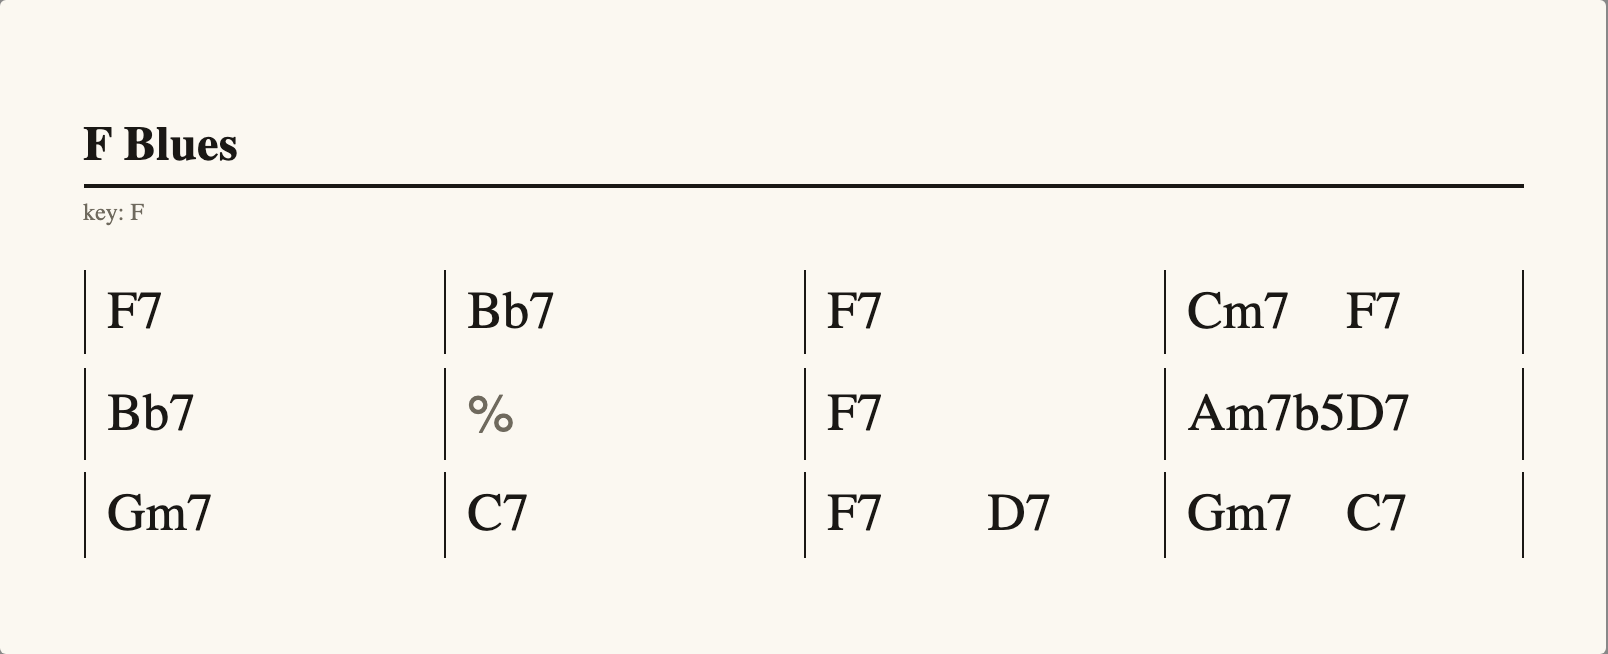
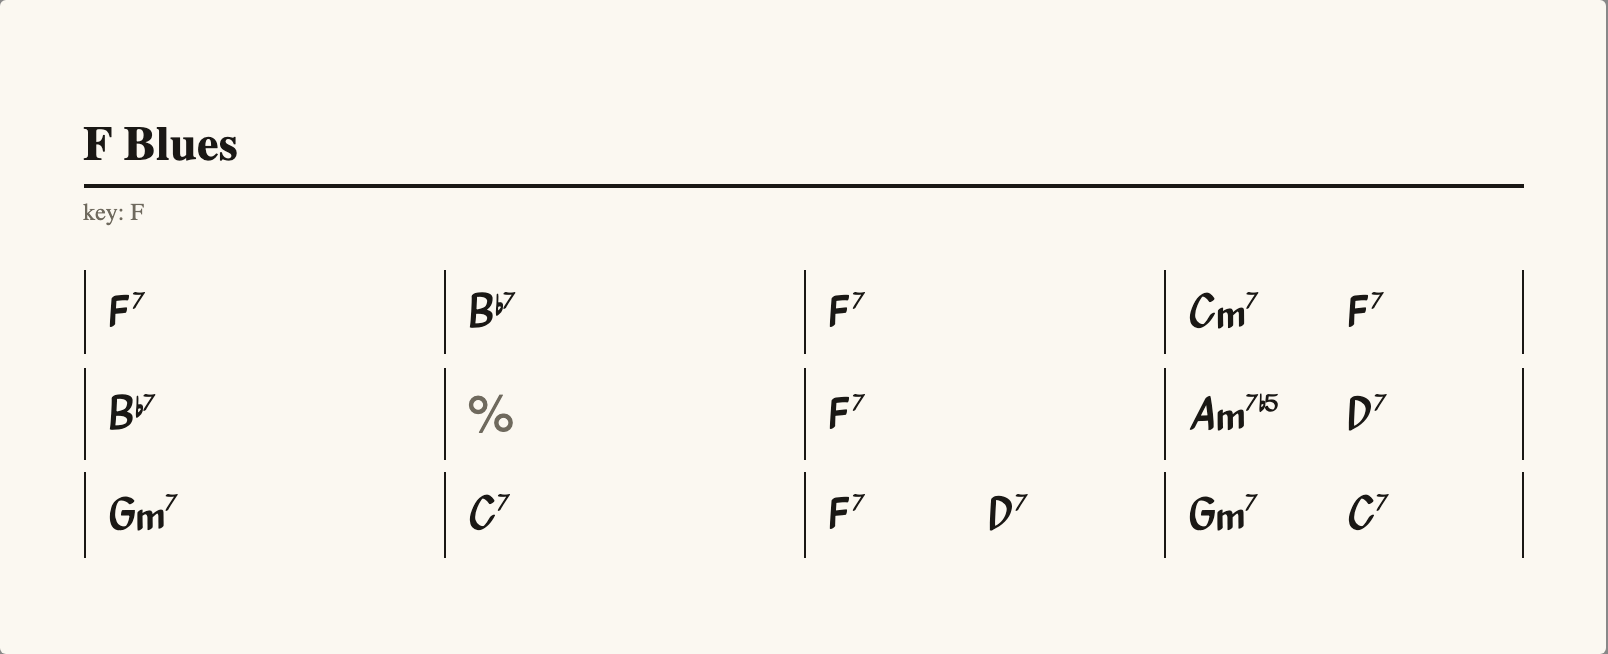
Fix README preview rendering by inlining ChordFont for Playwright.
Headless Chromium rejects file:// @font-face URLs, so previews were
screenshotting plain fallback text. Embed the TTF as a data URI, wait
for fonts.ready, and regenerate docs/assets/.

diff --git a/scripts/render-previews.ts b/scripts/render-previews.ts
@@ -2,14 +2,16 @@
  * Render example previews for docs/assets/ (README embeds, publish-ready).
  *
  * Charts: .cfmd → HTML + ChordFont → PNG (Playwright)
- * Graphs: .cfgv → Graphviz SVG → PNG + SVG (Playwright applies ChordFont to labels)
+ * Graphs: .cfgv → Graphviz SVG (font embedded) → PNG
+ *
+ * ChordFont is inlined as a data-URI — file:// @font-face fails in headless Chromium.
  *
  * Usage: make previews   (requires Node 22+, ChordProof.ttf, Playwright chromium)
  */
 import { access, mkdir, readFile, writeFile } from "node:fs/promises";
 import { constants } from "node:fs";
 import { dirname, join } from "node:path";
-import { fileURLToPath, pathToFileURL } from "node:url";
+import { fileURLToPath } from "node:url";
 import { chromium, type Browser } from "playwright";
 import { Graphviz } from "@hpcc-js/wasm";
 import manifest from "../examples/manifest.json" with { type: "json" };
@@ -34,23 +36,39 @@ async function exists(path: string): Promise<boolean> {
   }
 }
 
-function fontFace(): string {
-  return `@font-face{font-family:"ChordFont";src:url("${pathToFileURL(FONT).href}") format("truetype");}`;
+/** Inline TTF — file:// @font-face fails in headless Chromium. */
+function fontFace(fontBase64: string): string {
+  return `@font-face{font-family:"ChordFont";src:url("data:font/ttf;base64,${fontBase64}") format("truetype");}`;
+}
+
+function styledGraphSvg(svg: string, fontBase64: string): string {
+  const style = `<style type="text/css"><![CDATA[
+@font-face{font-family:"ChordFont";src:url("data:font/ttf;base64,${fontBase64}") format("truetype");}
+text{font-family:"ChordFont",ui-sans-serif;font-feature-settings:"liga" 1,"calt" 1;fill:#1a1815}
+]]></style>`;
+  return svg.replace(/(<svg[^>]*>)/, `$1${style}`);
 }
 
 async function screenshot(browser: Browser, html: string, selector: string, outPath: string) {
   const page = await browser.newPage({ deviceScaleFactor: 2 });
-  await page.setContent(html, { waitUntil: "networkidle" });
+  await page.setContent(html, { waitUntil: "domcontentloaded" });
+  await page.evaluate(async () => {
+    await document.fonts.ready;
+    const chordFont = [...document.fonts].find((f) => f.family === "ChordFont");
+    if (chordFont?.status === "error") {
+      throw new Error("ChordFont failed to load");
+    }
+  });
   await page.locator(selector).screenshot({ path: outPath, type: "png" });
   await page.close();
 }
 
-async function renderCharts(browser: Browser, chartCss: string) {
+async function renderCharts(browser: Browser, chartCss: string, fontBase64: string) {
   for (const { file } of manifest.charts) {
     const src = await readFile(join(CHARTS_SRC, `${file}.cfmd`), "utf8");
     const html = renderChartToHTML(parseChart(src), { normalize, lenient: true });
     const doc = `<!DOCTYPE html><html><head><meta charset="utf-8"><style>
-${fontFace()}
+${fontFace(fontBase64)}
 body{margin:0;background:#888}
 ${chartCss}
 .page{margin:0;box-shadow:none}
@@ -60,14 +78,14 @@ ${chartCss}
   }
 }
 
-async function renderGraphs(browser: Browser, graphviz: Graphviz) {
+async function renderGraphs(browser: Browser, graphviz: Graphviz, fontBase64: string) {
   for (const { file } of manifest.graphs) {
     const dot = (await readFile(join(GRAPHS_SRC, `${file}.cfgv`), "utf8")).trimEnd();
-    const svg = graphviz.dot(dot, "svg");
+    const svg = styledGraphSvg(graphviz.dot(dot, "svg"), fontBase64);
     await writeFile(join(OUT_GRAPHS, `${file}.svg`), svg, "utf8");
 
     const doc = `<!DOCTYPE html><html><head><meta charset="utf-8"><style>
-${fontFace()}
+${fontFace(fontBase64)}
 body{margin:0;background:#888}
 .wrap{background:#fbf8f1;padding:24px;display:inline-block}
 .wrap text{font-family:"ChordFont",ui-sans-serif!important;font-feature-settings:"liga" 1,"calt" 1;fill:#1a1815}
@@ -87,15 +105,18 @@ async function main() {
   await mkdir(OUT_CHARTS, { recursive: true });
   await mkdir(OUT_GRAPHS, { recursive: true });
 
-  const chartCss = await readFile(CHART_CSS, "utf8");
+  const [chartCss, fontBase64] = await Promise.all([
+    readFile(CHART_CSS, "utf8"),
+    readFile(FONT).then((buf) => buf.toString("base64")),
+  ]);
   const browser = await chromium.launch();
   const graphviz = await Graphviz.load();
 
   try {
     console.log("Rendering chart previews…");
-    await renderCharts(browser, chartCss);
+    await renderCharts(browser, chartCss, fontBase64);
     console.log("Rendering graph previews…");
-    await renderGraphs(browser, graphviz);
+    await renderGraphs(browser, graphviz, fontBase64);
   } finally {
     await browser.close();
   }
